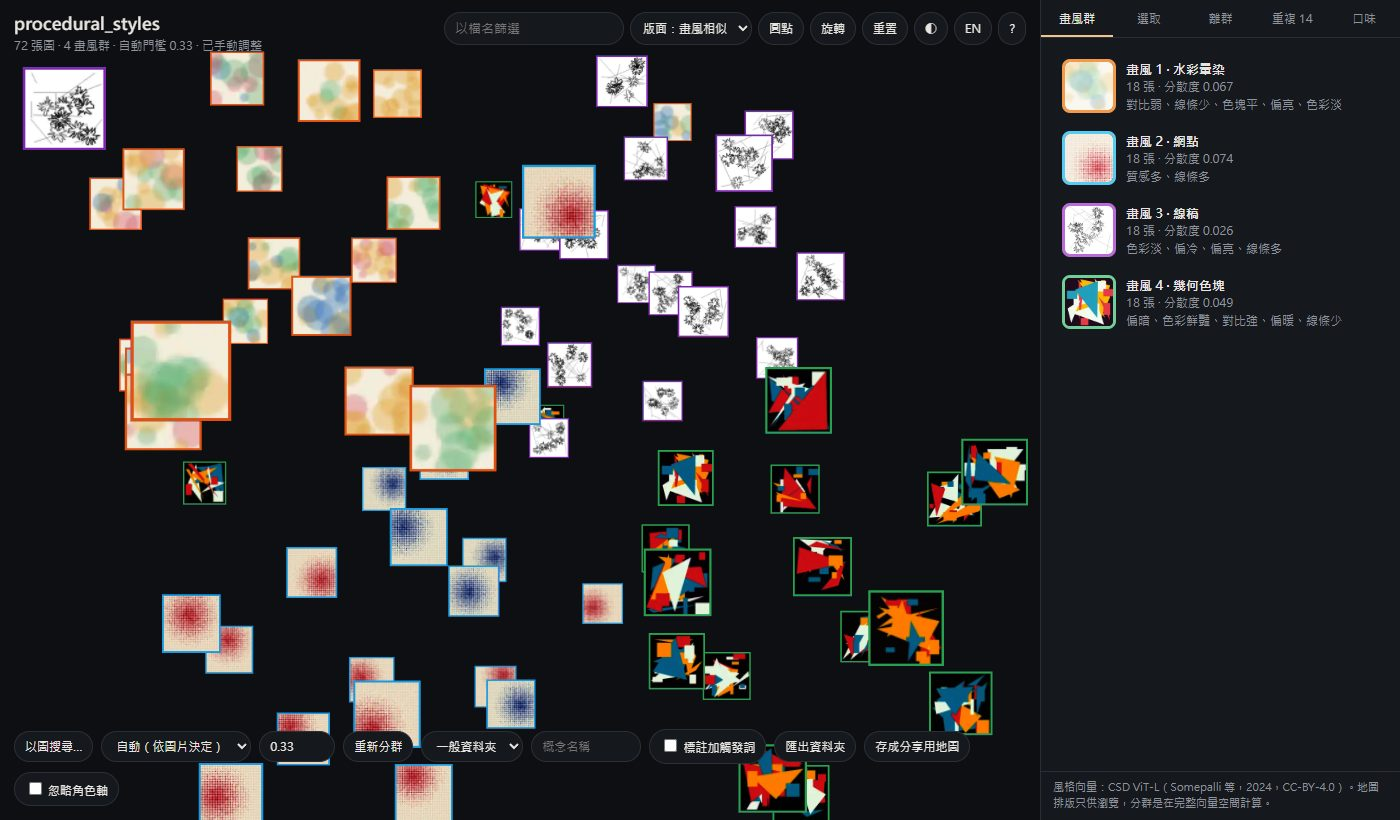
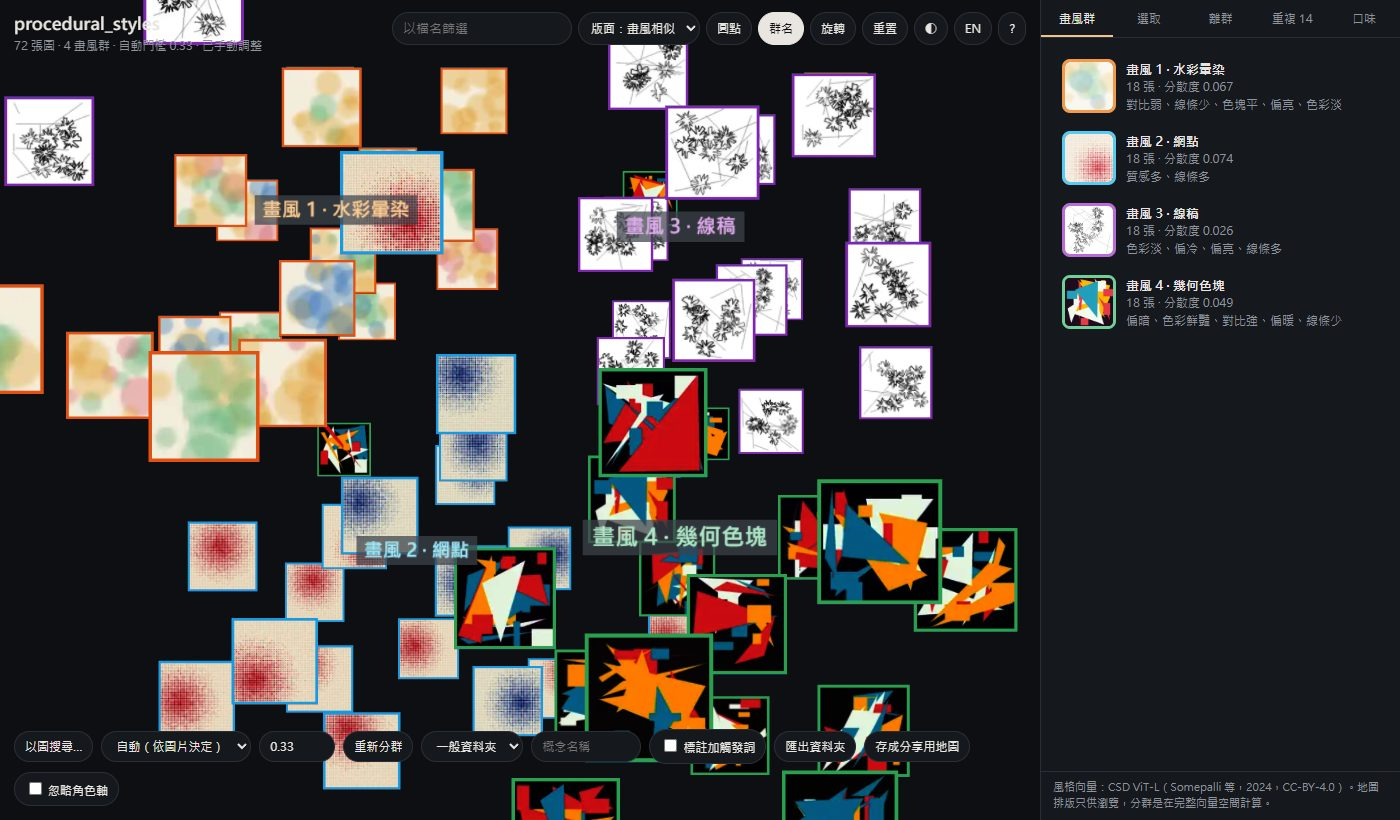
feat(ui): group names float at each group's centre in the 3D map

diff --git a/src/styleatlas/templates/map.js b/src/styleatlas/templates/map.js
@@ -6,7 +6,7 @@ const PTS = DATA.points;
 const N = PTS.length;
 const T = {
   en: { images: "images", clusters: "Styles", selected: "Selected", outliers: "Outliers",
-    find: "filter by file name", thumbs: "Thumbnails", dots: "Dots", spin: "Rotate", home: "Reset",
+    find: "filter by file name", thumbs: "Thumbnails", dots: "Dots", spin: "Rotate", home: "Reset", names: "Names",
     unassigned: "Unassigned", style: "Style", size: "images", cohesion: "spread",
     pick: "Click an image in the map to see its closest styles.", nearest: "Closest styles",
     members: "Members", cluster: "style", outlierHelp: "Images least like the rest of the set (candidates to drop from a LoRA dataset).",
@@ -52,7 +52,7 @@ const T = {
     tasteCount: "liked {a} · disliked {b}", tasteAuc: "cross-validated AUC {x} (0.5 = guessing). Treat it as a rough filter: it separates liked from disliked, not good from better.",
     tasteTop: "Most likely to like (unrated)", tasteBottom: "Least likely (unrated)", fine: "fine", medium: "medium", coarse: "coarse", auto: "auto (picked from the images)", foot: "Style vectors: CSD ViT-L (Somepalli et al. 2024, CC-BY-4.0). Map layout is for viewing only; groups are computed in the full space." },
   zh: { images: "張圖", clusters: "畫風群", selected: "選取", outliers: "離群",
-    find: "以檔名篩選", thumbs: "縮圖", dots: "圓點", spin: "旋轉", home: "重置",
+    find: "以檔名篩選", thumbs: "縮圖", dots: "圓點", spin: "旋轉", home: "重置", names: "群名",
     unassigned: "未歸類", style: "畫風", size: "張", cohesion: "分散度",
     pick: "在地圖上點一張圖，看最接近的畫風。", nearest: "最接近的畫風", members: "成員",
     cluster: "畫風群", outlierHelp: "和整組最不像的圖（訓 LoRA 前可考慮剔除）。",
@@ -277,6 +277,7 @@ function recolor() {
     alpha[i] = on ? 1 : 0.12;
   }
   pushAlpha();
+  fadeNames();
 }
 
 function centerOf(indices) {
@@ -524,7 +525,7 @@ function applyText() {
     (DATA.params && DATA.params.edited ? ` · ${t("edited")}` : "");
   $("find").placeholder = t("find");
   $("mode").textContent = mode === "thumbs" ? t("dots") : t("thumbs");
-  $("spin").textContent = t("spin"); $("home").textContent = t("home");
+  $("spin").textContent = t("spin"); $("home").textContent = t("home"); $("names").textContent = t("names");
   $("lang").textContent = lang === "zh" ? "EN" : "中";
   $("helpBtn").title = t("keys");
   if (!$("help").hidden) showHelp(true);
@@ -540,6 +541,7 @@ function applyText() {
   if (DATA.live && DATA.clusters.length <= 1 && N > 10) setStatus(t("oneGroup"));
   else if (DATA.live && DATA.live.restored && !$("status").textContent) setStatus(t("restored"));
   setupAxes(); if (layoutMode === "measures") drawAxes();
+  drawNames();
 }
 
 
@@ -684,8 +686,52 @@ function stepMorph() {
     a.needsUpdate = true;
     pg.geo.computeBoundingSphere();
   }
-  if (morph.k >= 1) morph = null;
+  if (morph.k >= 1) { morph = null; drawNames(); }
 }
+
+/* ---------- group names floating at each group's centre ---------- */
+const MAX_NAMES = 16;  // the largest groups only: more labels cover the map
+let nameSprites = null;
+let showNames = true;
+
+function nameSprite(text, color) {
+  const cv = document.createElement("canvas"); const g = cv.getContext("2d");
+  const font = "600 30px system-ui, sans-serif"; g.font = font;
+  cv.width = Math.ceil(g.measureText(text).width) + 24; cv.height = 46;
+  g.font = font; g.fillStyle = "rgba(12,14,18,0.72)"; g.fillRect(0, 0, cv.width, cv.height);
+  g.fillStyle = color; g.fillText(text, 12, 33);
+  const sp = new THREE.Sprite(new THREE.SpriteMaterial({ map: new THREE.CanvasTexture(cv), depthTest: false, transparent: true }));
+  const h = 0.11; sp.scale.set(h * cv.width / cv.height, h, 1); sp.renderOrder = 10;
+  return sp;
+}
+
+function drawNames() {
+  if (nameSprites) { scene.remove(nameSprites); disposeTree(nameSprites); nameSprites = null; }
+  if (!showNames) return;
+  const sums = new Map();
+  PTS.forEach((p, i) => {
+    if (p.c < 0) return;
+    const s = sums.get(p.c) || [0, 0, 0, 0];
+    s[0] += pos[i * 3]; s[1] += pos[i * 3 + 1]; s[2] += pos[i * 3 + 2]; s[3] += 1; sums.set(p.c, s);
+  });
+  nameSprites = new THREE.Group();
+  [...sums.entries()].sort((a, b) => b[1][3] - a[1][3]).slice(0, MAX_NAMES).forEach(([c, s]) => {
+    const sp = nameSprite(clusterName(c), colorOf(c));
+    sp.position.set(s[0] / s[3], s[1] / s[3] + 0.12, s[2] / s[3]); sp.userData.c = c;
+    nameSprites.add(sp);
+  });
+  scene.add(nameSprites);
+  fadeNames();
+}
+
+function fadeNames() {  // with one group in focus, the other names step back
+  if (!nameSprites) return;
+  nameSprites.children.forEach((sp) => { sp.material.opacity = focusCluster === null || sp.userData.c === focusCluster ? 1 : 0.15; });
+}
+
+$("names").addEventListener("click", () => {
+  showNames = !showNames; $("names").classList.toggle("on", showNames); drawNames();
+});
 
 function label(text, at) {
   const cv = document.createElement("canvas"); cv.width = 1024; cv.height = 64;

diff --git a/src/styleatlas/templates/map.html b/src/styleatlas/templates/map.html
@@ -19,6 +19,7 @@
         <select id="layoutSel"></select>
         <span id="axes" hidden><select id="axX"></select><select id="axY"></select><select id="axZ"></select></span>
         <button id="mode"></button>
+        <button id="names" class="on"></button>
         <button id="spin"></button>
         <button id="home"></button>
         <button id="theme">◐</button>

diff --git a/README.md b/README.md
@@ -175,7 +175,7 @@ style-atlas taste score "D:\new_batch" --model "D:\my_taste.npz"
 
 ### 網頁介面與 3D 地圖
 
-- 縮圖浮在 3D 空間中，外框顏色代表畫風群。可以拖曳旋轉、滾輪縮放，`+` / `-` 調整縮圖大小。按 `?`（或右上角的 ? 按鈕）會列出所有快捷鍵。
+- 縮圖浮在 3D 空間中，外框顏色代表畫風群，群名浮在每群中央（右上角「群名」可關掉；最多顯示最大的 16 群）。可以拖曳旋轉、滾輪縮放，`+` / `-` 調整縮圖大小。按 `?`（或右上角的 ? 按鈕）會列出所有快捷鍵。
 - 點右側的畫風群，鏡頭會飛過去並列出成員。點地圖上任一張圖，會列出最接近的 12 張。
 - 「離群」「重複」分頁分別列出最不合群的圖和近重複圖組。
 - 右上角可以把「版面」從「畫風相似」切到「量化軸」。切換後，三個軸可以各自選一種指標，縮圖會移動到對應位置。可選的指標有：
@@ -290,7 +290,8 @@ how a picture is drawn rather than what it shows. On top of those vectors it can
   or use `search` (`--combine` learns from several examples, `--copy-to` gathers the matches). A
   "style path" lists the images that lead from one picked style to another.
 - **Explore a 3D style map** (`map`, or "Save shareable map" in the web app): one HTML file you
-  can send to anyone. Groups show their characteristic caption tags.
+  can send to anyone. Group names float at each group's centre ("Names" hides them), and groups
+  show their characteristic caption tags.
 - **Check a dataset** (`audit`, `duplicates`): sizes, aspect ratios, captions, near-duplicates,
   greyscale images mixed into a colour set.
 - **Fix groups by hand** in the web app: "Find more like this" lists the images outside a group

diff --git a/CHANGELOG.md b/CHANGELOG.md
@@ -2,6 +2,8 @@
 
 ## Unreleased
 
+- **Group names float in the 3D map** at each group's centre (the 16 largest groups; the
+  "Names" button hides them). With one group in focus the other names fade.
 - **Find more like these** in the web app's excluded list: exclude two or three strays by
   another artist, and the rest are listed first. From three strays the top 30 held 98% of the
   others, while outlier scores found only half (BENCHMARKS.md).
